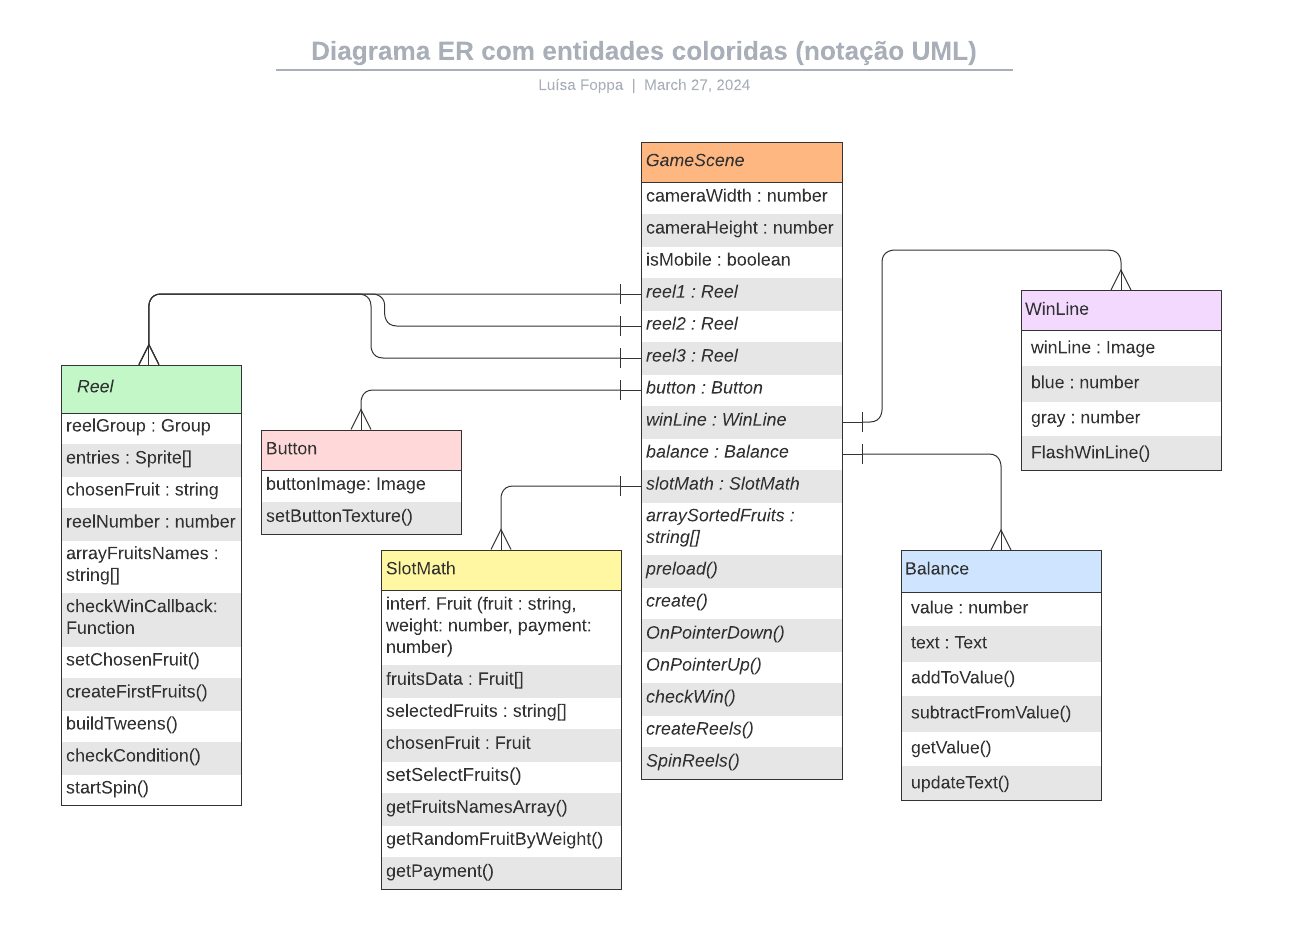
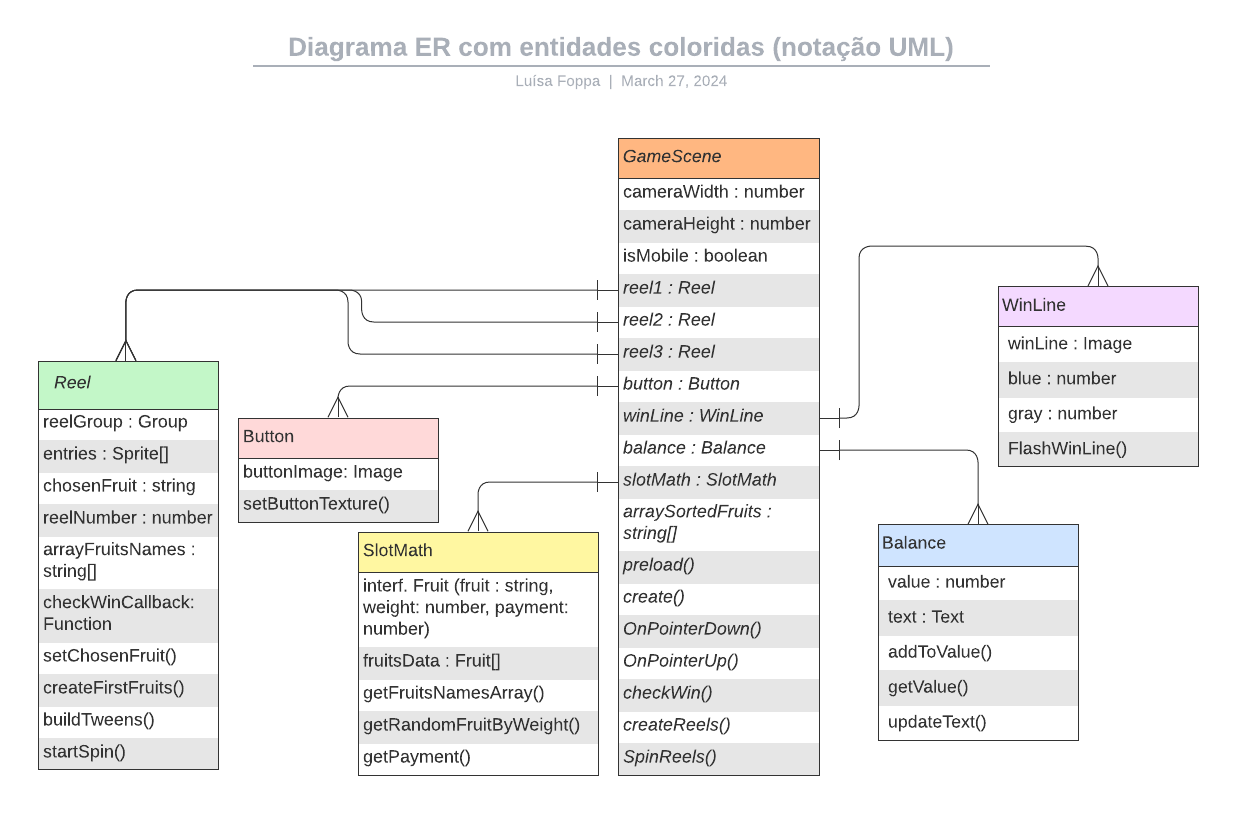
doc: updating diagram fix:deleting unnecessary things

Changed region(s): [[0.0307, 0.1515, 0.9838, 0.9697], [0.2152, 0.0303, 0.7994, 0.1212]]

diff --git a/src/objects/SlotMath.ts b/src/objects/SlotMath.ts
@@ -6,8 +6,6 @@ export interface Fruit {
 
 export default class SlotMath {
     fruitsData: Fruit[];
-    selectedFruits: string[] = [];
-    chosenFruit: Fruit;
 
     constructor() {
         this.fruitsData = [
@@ -22,10 +20,6 @@ export default class SlotMath {
         ];
     }
 
-    setSelectFruits(fruit: string) {
-        this.selectedFruits.push(fruit);
-    }
-    
     getFruitsNamesArray() {
         const fruits : string[] = this.fruitsData.map(fruit => fruit.fruit);
         return fruits;
@@ -38,8 +32,6 @@ export default class SlotMath {
         for (let i = 0; i < this.fruitsData.length; i++) {
             accumulatedWeight += this.fruitsData[i].weight;
             if (random < accumulatedWeight) {
-                this.chosenFruit = this.fruitsData[i];
-                this.setSelectFruits(this.chosenFruit.fruit);
                 return this.fruitsData[i];
             }
         }

diff --git a/src/objects/Reel.ts b/src/objects/Reel.ts
@@ -60,19 +60,13 @@ export default class Reel extends Phaser.GameObjects.Container {
                 onComplete: () => {
                     if(this.reelNumber === 3 && i=== 7){
 
-                        this.checkCondition(arrayFruits);
+                        this.checkWinCallback(arrayFruits);
                     }
                 }
             });
             ball.y = this.y - 840 + (140 * i);
         }
     }
-
-   checkCondition = (arrayFruits : string[]) => {
-        if (this.reelNumber === 3 ) {
-            this.checkWinCallback(arrayFruits);
-        }
-    };
     
 
     startSpin(arrayFruits : string[]) {  
